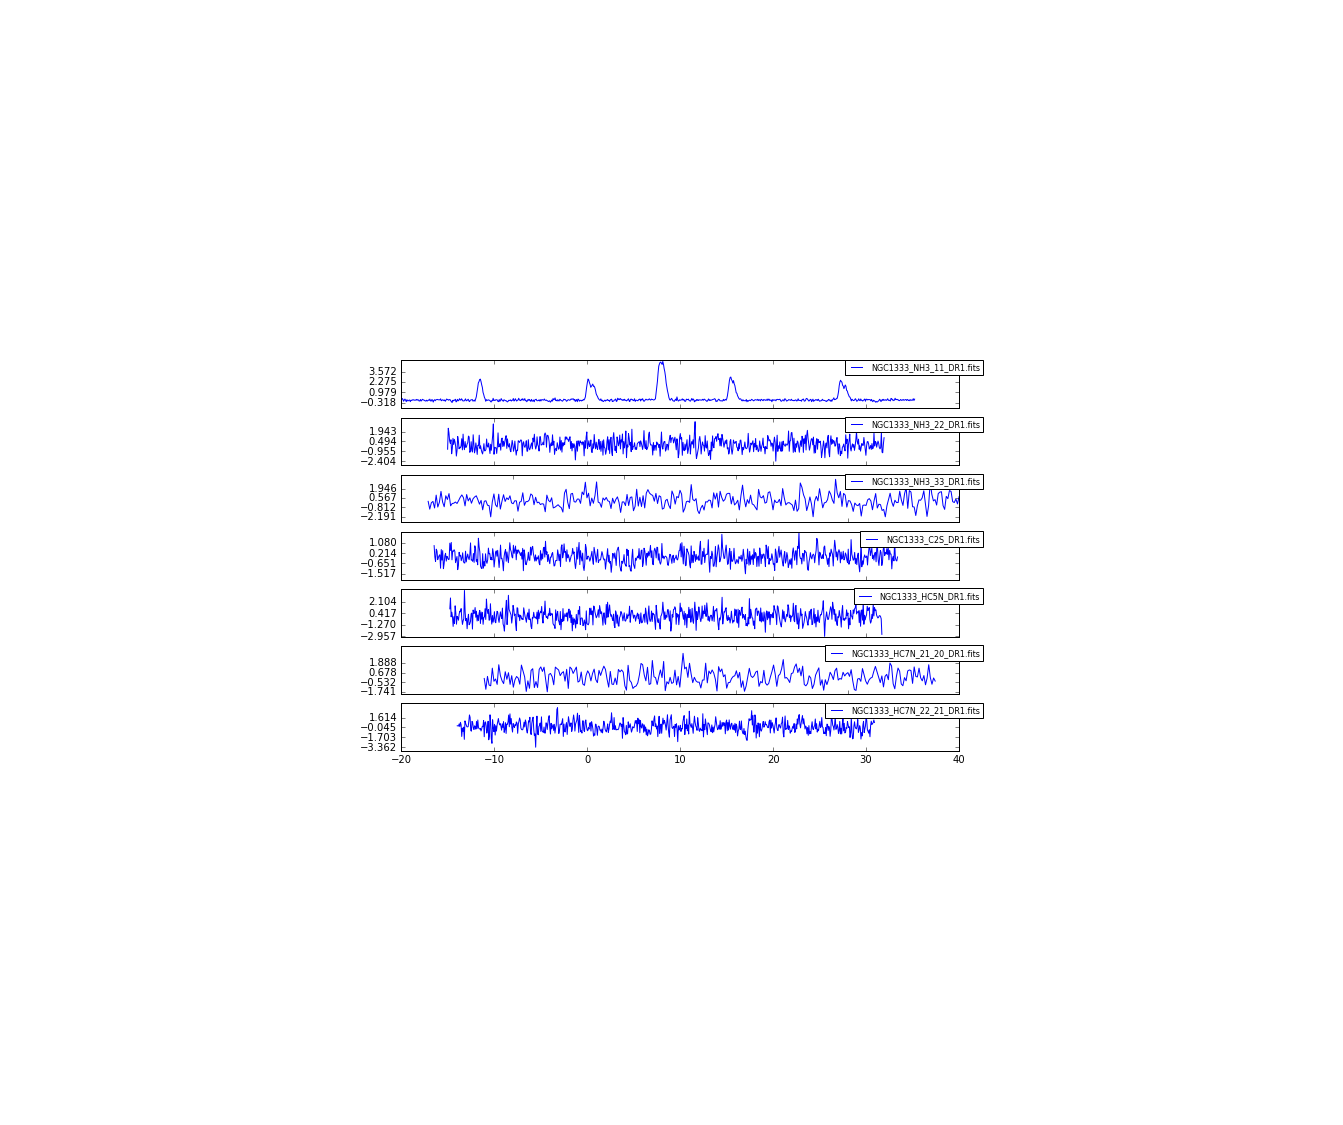
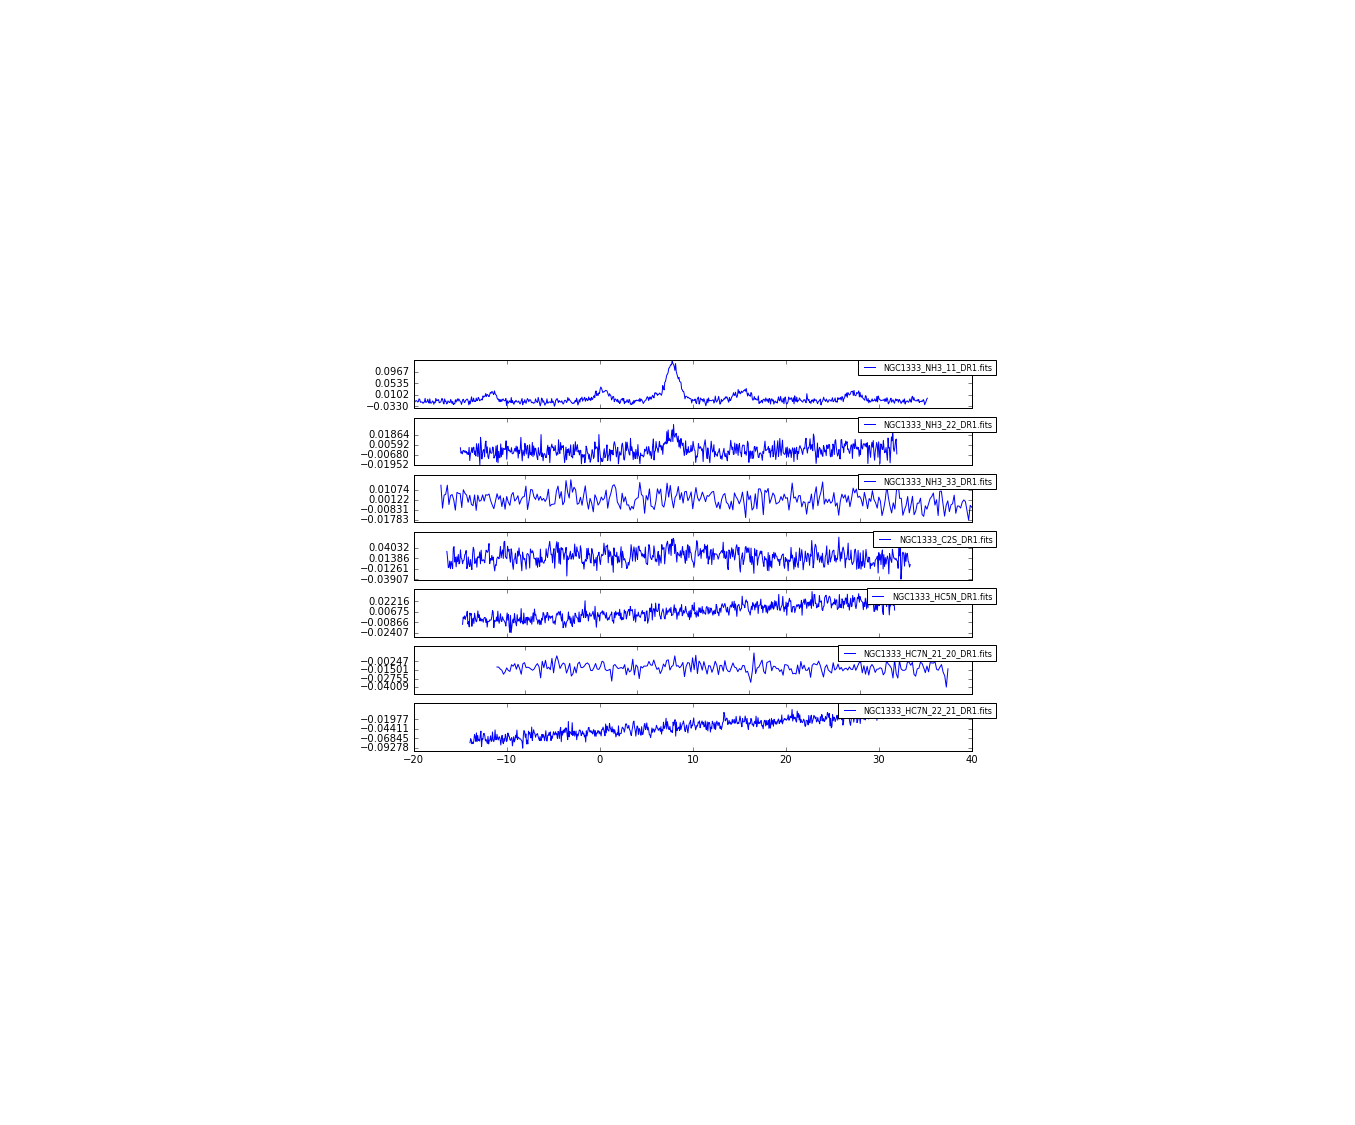
The last plots of Friday, May 13th. All spectra are from the same regions of the map.

Changed region(s): [[0.2748, 0.3111, 0.7327, 0.6844]]

diff --git a/May13.AllImplemented.py b/May13.AllImplemented.py
@@ -11,14 +11,13 @@ import scipy.ndimage as nd
 import astropy.units as u
 
 
-
 files =['NGC1333_NH3_11_DR1.fits', 'NGC1333_NH3_22_DR1.fits', 'NGC1333_NH3_33_DR1.fits', 
        'NGC1333_C2S_DR1.fits',
        'NGC1333_HC5N_DR1.fits',
         'NGC1333_HC7N_21_20_DR1.fits', 'NGC1333_HC7N_22_21_DR1.fits']
 
 
-def main(bin_width=500, thisbin=9):   
+def main(bin_width=500, thisbin=0):   
     # This is the main routine.
     loop_count = 0
     fig = plt.figure(figsize=(10,7))
@@ -48,12 +47,12 @@ def main(bin_width=500, thisbin=9):
 #     plt.legend(leg, loc = 5, prop={'size':8})
 #     ax.legend(bbox_to_anchor=(1.05, 0), loc='lower left', borderaxespad=0.)
 #     fig.legend(curves_names, leg, bbox_to_anchor=(0.5, -0.15))
-#    plt.savefig("ImprovedCodeBin_width=500wanted_bin=0.png", pad_inches=5, bbox_inches='tight')    
+#    plt.savefig("May13.AllImplementedBin_width=%rThisbin=%r.png" %(bin_width, thisbin))    
 #     figtext(.0,.0,'From top to botom:\n' + str(files) , fontsize=8)
     fig.suptitle("average spectrum of pixels in brightnes bin = %r for bin width = %r" %(thisbin, bin_width), fontsize=12)
     plt.show()
 
-def binning(f_nam, bin_width=500, thisbin=9):
+def binning(f_nam, bin_width=500, thisbin=0):
     """A function creating brightness bins of pixels, and eventualy a map, in the given spectral cube"""
     cube = SpectralCube.read(f_nam)
     cube = cube.with_spectral_unit(u.km/u.s,velocity_convention='radio')
